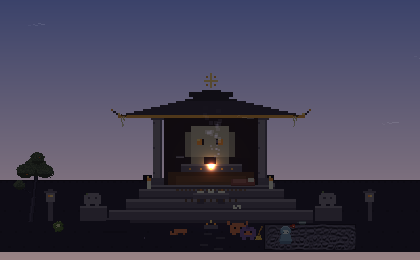
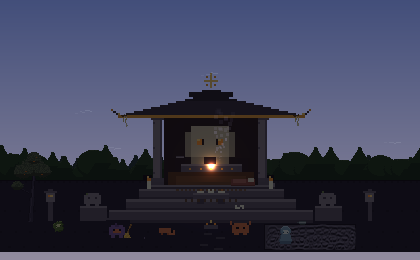
The shrine is nestled in woods now
Two treelines behind everything (tools/make_woods.py -> woods_far/near),
between the moon and the ground plane, feet tucked under the horizon.
Kept cool blue-pine on purpose — and their season tint half-lost in haze —
so the one warm tree you tend never blends into the many you don't.
Momiji finally has somewhere to trot in from.

diff --git a/src/main.ts b/src/main.ts
@@ -346,6 +346,22 @@ async function boot() {
   fox.onAte = () => { garden = foxAte(garden); fox.trust = foxTrust(garden); syncFoxYard(); save(); };
   fox.onGift = kind => { garden = addFoxGift(garden, kind, Date.now()); syncFoxYard(); save(); };
 
+  // --- the woods behind everything: the shrine is nestled, not stranded.
+  // Two treelines between the moon (z=4) and the ground (z=8); the ground
+  // hides their feet below the horizon. Old growth — they answer the
+  // seasons without waiting to mature. ---
+  const woodsStrip = (tex: string, h: number, z: number) => {
+    const m = new THREE.Mesh(
+      new THREE.PlaneGeometry(440, h),
+      new THREE.MeshLambertMaterial({ map: loadTex(tex), transparent: true, alphaTest: 0.01 }),
+    );
+    m.position.set(0, -52 + h / 2, z); // feet tucked under the horizon (~-50)
+    scene.add(m);
+    return m;
+  };
+  const woodsFar = woodsStrip('woods_far', 34, 5);
+  const woodsNear = woodsStrip('woods_near', 44, 6.5);
+
   // --- the tree, keeper of leaves; a sapling at first, it grows over the weeks ---
   const tree = new THREE.Mesh(
     new THREE.PlaneGeometry(TREE.w, TREE.h),
@@ -362,6 +378,13 @@ async function boot() {
     (tree.material as THREE.MeshLambertMaterial).color.setHex(
       treeMature(garden, Date.now()) ? SEASON_TINT[season(now())] : 0xffffff,
     );
+    // the woods take the season too, but half-lost in haze — so the one
+    // warm tree you tend never blends into the many cool ones you don't
+    const woodsTint = new THREE.Color(SEASON_TINT[season(now())])
+      .lerp(new THREE.Color(0x9aa4b4), 0.5);
+    for (const w of [woodsFar, woodsNear]) {
+      (w.material as THREE.MeshLambertMaterial).color.copy(woodsTint);
+    }
     return k;
   };
   let treeK = growTree();

diff --git a/src/render/scene.ts b/src/render/scene.ts
@@ -74,7 +74,8 @@ export async function buildShrineScene(): Promise<ShrineScene> {
   const camera = makeCamera();
   const manifest = await loadManifest();
   await preloadTextures([...Object.keys(manifest).filter(n => n !== 'sky' && n !== 'stars'), 'broom', 'tree', 'heart', 'bow', 'doorway', 'bed', 'chime', 'cloud1', 'cloud2', 'cloud3', 'spirit_blue', 'twinkle', 'spirit_moss', 'firefly_glow', 'fox_trot', 'fox_sit',
-    'fox_dish', 'fox_food', 'gift_button', 'gift_coin', 'gift_cap', 'gift_card']);
+    'fox_dish', 'fox_food', 'gift_button', 'gift_coin', 'gift_cap', 'gift_card',
+    'woods_far', 'woods_near']);
   const layers = new Map<string, THREE.Mesh>();
   for (const [name, e] of Object.entries(manifest)) {
     if (name === 'sky' || name === 'stars') continue; // sky is generated, not sliced

diff --git a/tools/make_woods.py b/tools/make_woods.py
@@ -1,0 +1,91 @@
+"""The woods behind the shrine.
+
+Two treeline strips for the far background — a distant row gone blue with
+haze, and a nearer row still green — so the shrine sits nestled in forest
+instead of on a bare hill, and Momiji has somewhere to trot in from.
+
+Deterministic (fixed seed): re-running reproduces the same woods.
+Both rows take the tree's SEASON_TINT in main.ts, so autumn turns them
+amber and winter goes pale along with the garden tree.
+"""
+import pathlib
+import random
+
+from PIL import Image
+
+OUT = pathlib.Path(__file__).resolve().parents[1] / "public" / "sprites"
+rng = random.Random(1016)  # the day the woods grew
+
+W = 440  # bleeds past the 420 window so the edges never show a seam
+
+
+def treeline(name, h, palette, tree_h, step, conifer_odds):
+    """One row of woods: overlapping crowns walking the strip left to right."""
+    img = Image.new("RGBA", (W, h), (0, 0, 0, 0))
+    px = img.load()
+    deep, mid, rim = palette
+
+    def blob(cx, cy, r, col):
+        for y in range(max(0, cy - r), min(h, cy + r + 1)):
+            for x in range(max(0, cx - r), min(W, cx + r + 1)):
+                dx, dy = x - cx, y - cy
+                if dx * dx + dy * dy * 1.6 <= r * r:
+                    px[x, y] = col
+
+    def cone(cx, top, ht, col):
+        for i in range(ht):
+            y = top + i
+            if not 0 <= y < h:
+                continue
+            half = max(1, (i * 2) // 3)
+            for x in range(max(0, cx - half), min(W, cx + half + 1)):
+                px[x, y] = col
+
+    x = -6
+    while x < W + 6:
+        ht = rng.randint(tree_h[0], tree_h[1])
+        top = h - ht
+        if rng.random() < conifer_odds:
+            cone(x, top, ht, deep)
+            cone(x - 1, top - 1, max(3, ht // 2), mid)  # a lit shoulder
+        else:
+            r = max(3, ht // 2)
+            blob(x, top + r, r, deep)
+            blob(x - 1, top + r - 2, max(2, r - 2), mid)
+        x += rng.randint(step[0], step[1])
+
+    # fill to the strip's floor so no sky leaks through between trunks,
+    # and lay a single lighter rim along the canopy's top edge
+    for x in range(W):
+        first = None
+        for y in range(h):
+            if px[x, y][3]:
+                first = y
+                break
+        if first is None:
+            first = h - rng.randint(4, 7)  # a low bush where no tree stood
+        for y in range(first, h):
+            if not px[x, y][3]:
+                px[x, y] = deep
+        if first > 0:
+            px[x, first] = rim if rng.random() < 0.6 else mid
+
+    img.save(OUT / (name + ".png"))
+
+
+# far row: forest gone blue with distance, low and rolling
+treeline("woods_far", 34, [
+    (38, 50, 64, 255),    # deep haze
+    (48, 64, 78, 255),    # mid
+    (60, 78, 92, 255),    # rim light
+], tree_h=(14, 26), step=(5, 11), conifer_odds=0.45)
+
+# near row: cool blue-pine, kept well away from the garden tree's warm
+# green so the one tree you tend never vanishes into the many you don't
+treeline("woods_near", 44, [
+    (36, 52, 56, 255),    # deep pine
+    (46, 66, 66, 255),    # mid
+    (58, 82, 78, 255),    # rim light
+], tree_h=(18, 36), step=(7, 15), conifer_odds=0.6)
+
+print("wrote woods_far.png, woods_near.png")